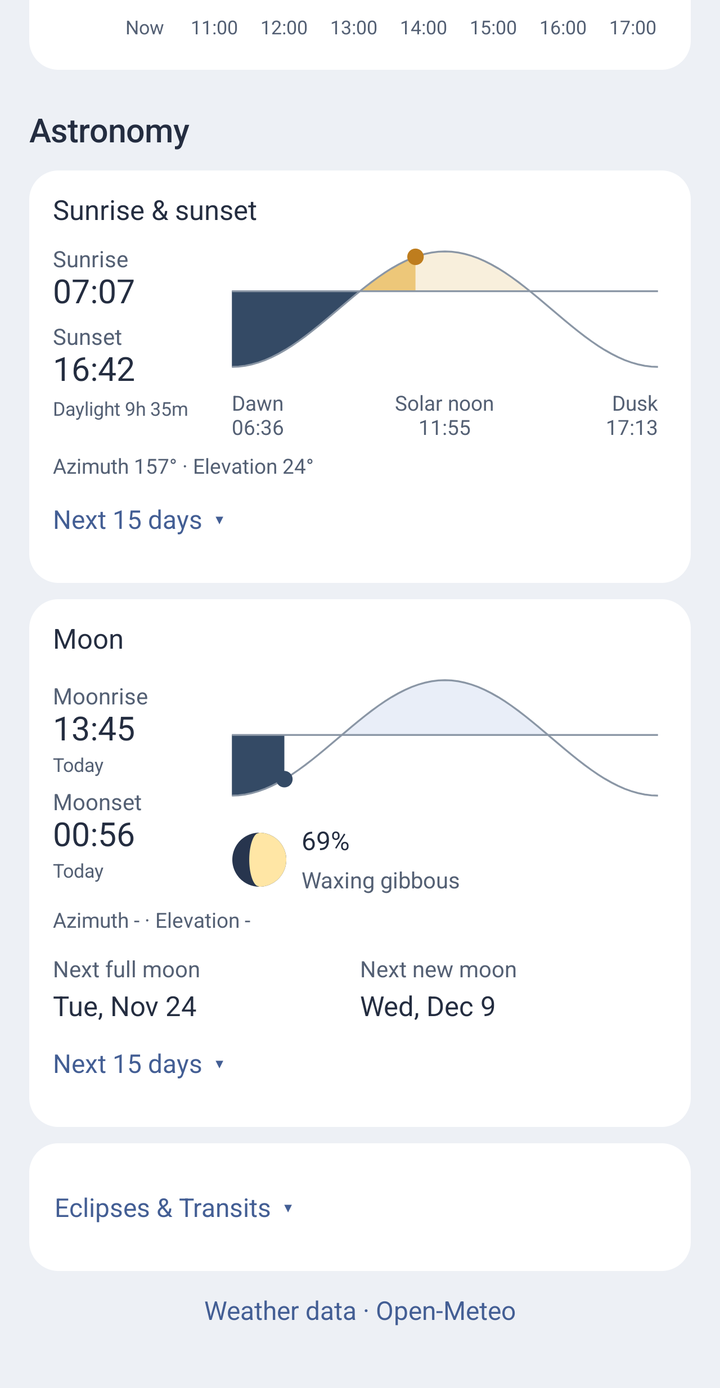
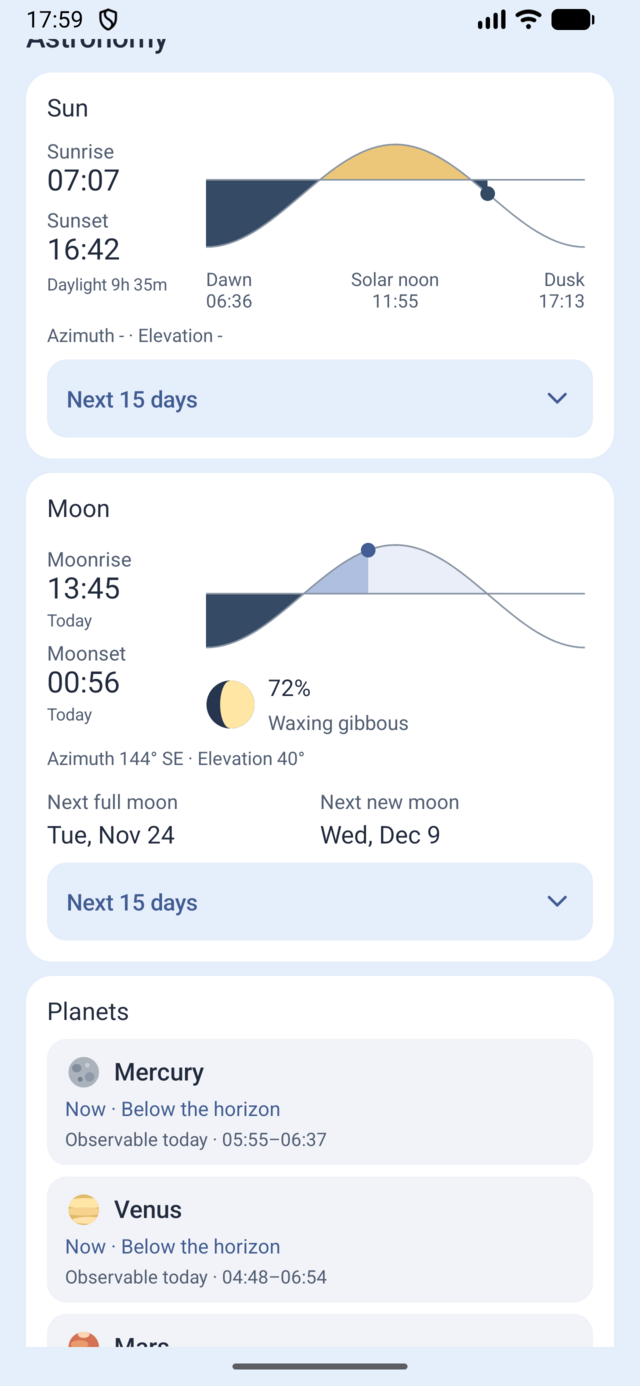
Improve aurora readability and refresh README screenshots

diff --git a/app/src/main/java/it/meteo/locale/MainActivity.java b/app/src/main/java/it/meteo/locale/MainActivity.java
@@ -94,6 +94,7 @@ public final class MainActivity extends Activity {
     private TextView auroraStatus;
     private TextView auroraTimes;
     private TextView currentKpView;
+    private View currentKpBar;
     private AuroraForecast.KpReading currentKp;
     private LinearLayout kpTable;
     private List<AuroraForecast.KpPeriod> kpPeriods = List.of();
@@ -527,6 +528,7 @@ public final class MainActivity extends Activity {
         auroraStatus = null;
         auroraTimes = null;
         currentKpView = null;
+        currentKpBar = null;
         kpTable = null;
         radarButton = null;
         sunCoordinates = null;
@@ -796,6 +798,9 @@ public final class MainActivity extends Activity {
 
     private Button mapButton(int title, Runnable open) {
         Button button = actionButton(getString(title), getColor(R.color.sky_action), 24);
+        int foreground = getColor(R.color.sky_on_action);
+        button.setTextColor(foreground);
+        button.setCompoundDrawableTintList(android.content.res.ColorStateList.valueOf(foreground));
         button.setCompoundDrawablePadding(dp(7));
         button.setCompoundDrawablesRelativeWithIntrinsicBounds(R.drawable.ic_radar, 0, 0, 0);
         button.setOnClickListener(view -> open.run());
@@ -1422,9 +1427,6 @@ public final class MainActivity extends Activity {
             planetRows.add(new PlanetRow(body, now, position, windows));
             addSpaced(tile, entry, 7);
         }
-        TextView note = label(getString(R.string.planets_clear_sky), 11, muted);
-        note.setPadding(0, dp(8), 0, 0);
-        tile.addView(note);
         LinearLayout direction = column();
         direction.setBackground(background(getColor(R.color.sky_subtle), 12));
         direction.setPadding(dp(11), dp(9), dp(11), dp(9));
@@ -1435,7 +1437,10 @@ public final class MainActivity extends Activity {
         TextView directionHint = label(getString(R.string.phone_direction_hint), 11, muted);
         directionHint.setPadding(0, dp(8), 0, 0);
         direction.addView(directionHint);
-        addSpaced(tile, direction, 8);
+        tile.addView(direction);
+        TextView note = label(getString(R.string.planets_clear_sky), 11, muted);
+        note.setPadding(0, dp(8), 0, 0);
+        tile.addView(note);
         startPhoneOrientation();
         updatePlanets(Instant.now());
         addSpaced(page, tile, 9);
@@ -1496,20 +1501,27 @@ public final class MainActivity extends Activity {
         LinearLayout heading = row();
         heading.setGravity(Gravity.TOP);
         heading.setBaselineAligned(false);
-        heading.addView(label(getString(R.string.aurora), 16, ink), new LinearLayout.LayoutParams(0, -2, 1));
+        LinearLayout summary = column();
+        summary.setPaddingRelative(0, 0, dp(8), 0);
+        summary.addView(label(getString(R.string.aurora), 16, ink));
+        auroraStatus = label("", 15, ink);
+        auroraStatus.setPadding(0, dp(10), 0, 0);
+        summary.addView(auroraStatus);
+        heading.addView(summary, new LinearLayout.LayoutParams(0, -2, 1));
         Button map = mapButton(R.string.aurora_map_short, () -> openMap(true));
         map.setContentDescription(getString(R.string.aurora_map));
         heading.addView(map);
         tile.addView(heading);
-        auroraStatus = label("", 15, ink);
-        auroraStatus.setPadding(0, dp(8), 0, 0);
-        tile.addView(auroraStatus);
         auroraTimes = label("", 12, muted);
         auroraTimes.setPadding(0, dp(4), 0, 0);
         tile.addView(auroraTimes);
         currentKpView = label("", 14, accent);
         currentKpView.setPadding(0, dp(8), 0, 0);
         tile.addView(currentKpView);
+        currentKpBar = kpBar();
+        LinearLayout.LayoutParams currentBarSize = new LinearLayout.LayoutParams(-1, dp(6));
+        currentBarSize.topMargin = dp(5);
+        tile.addView(currentKpBar, currentBarSize);
         LinearLayout table = column();
         kpTable = table;
         table.setVisibility(View.GONE);
@@ -1572,8 +1584,13 @@ public final class MainActivity extends Activity {
             }
             LinearLayout line = row();
             line.setPadding(0, dp(4), 0, dp(4));
-            line.addView(label(hours.format(period.start) + "–" + hours.format(period.end()), 14, ink),
-                    new LinearLayout.LayoutParams(0, -2, 1));
+            line.addView(label(hours.format(period.start) + "–" + hours.format(period.end()), 14, ink));
+            View bar = kpBar();
+            bar.getBackground().setLevel((int) Math.round(period.kp * 10000 / 9));
+            LinearLayout.LayoutParams barSize = new LinearLayout.LayoutParams(0, dp(6), 1);
+            barSize.setMarginStart(dp(10));
+            barSize.setMarginEnd(dp(10));
+            line.addView(bar, barSize);
             TextView activity = label("Kp " + number(period.kp, "%.2f") + "/9", 14, accent);
             line.addView(activity);
             kpTable.addView(line);
@@ -1581,6 +1598,18 @@ public final class MainActivity extends Activity {
         int text = currentDate != null ? R.string.aurora_kp_hint
                 : kpLoading ? R.string.aurora_loading : R.string.aurora_unavailable;
         addSpaced(kpTable, label(getString(text), 12, muted), 8);
+    }
+
+    private View kpBar() {
+        View bar = new View(this);
+        android.graphics.drawable.ClipDrawable fill = new android.graphics.drawable.ClipDrawable(
+                new GradientDrawable(GradientDrawable.Orientation.LEFT_RIGHT,
+                        new int[]{0xff41a872, 0xffe6b83b, 0xffdf5745}),
+                Gravity.START, android.graphics.drawable.ClipDrawable.HORIZONTAL);
+        bar.setBackground(new android.graphics.drawable.LayerDrawable(new android.graphics.drawable.Drawable[]{
+                background(getColor(R.color.sky_selected), 3), fill}));
+        bar.setImportantForAccessibility(View.IMPORTANT_FOR_ACCESSIBILITY_NO);
+        return bar;
     }
 
     private void refreshAurora() {
@@ -1619,9 +1648,12 @@ public final class MainActivity extends Activity {
     private void updateCurrentKp(Instant now) {
         if (currentKpView == null) return;
         if (currentKp == null || now.isAfter(currentKp.time.plusSeconds(1800))) {
+            currentKpBar.setVisibility(View.GONE);
             currentKpView.setText(R.string.aurora_kp_current_unavailable);
             return;
         }
+        currentKpBar.setVisibility(View.VISIBLE);
+        currentKpBar.getBackground().setLevel((int) Math.round(currentKp.kp * 10000 / 9));
         ZoneId zone = ZoneId.of(data.optString("timezone", "UTC"));
         currentKpView.setText(getString(R.string.aurora_kp_current, number(currentKp.kp, "%.2f"),
                 formatTime(currentKp.time.atZone(zone).toLocalTime(), clockFormat())));

diff --git a/README.md b/README.md
@@ -5,9 +5,14 @@ SkyHere is an Android app for local weather, precipitation radar, and skywatchin
 ## Screenshots
 
 <p>
-  <img src="docs/screenshots/forecast.png" width="240" alt="Current weather, hourly forecast, and the 10-day forecast" />
-  <img src="docs/screenshots/hourly-details.png" width="240" alt="Hourly wind speed and gust chart" />
+  <img src="docs/screenshots/forecast.png" width="240" alt="Current weather in Bastia Umbra, regional wind warnings, and the 10-day forecast" />
+  <img src="docs/screenshots/hourly-details.png" width="240" alt="Current conditions and the hourly precipitation chart" />
   <img src="docs/screenshots/astronomy.png" width="240" alt="Sun and Moon paths, rise and set times, and lunar phase" />
+</p>
+
+<p>
+  <img src="docs/screenshots/aurora.png" width="240" alt="Aurora visibility in Abisko, current Kp, and forecast bars" />
+  <img src="docs/screenshots/aurora-map.png" width="240" alt="Interactive NOAA aurora map centered on Abisko" />
 </p>
 
 ## Features
